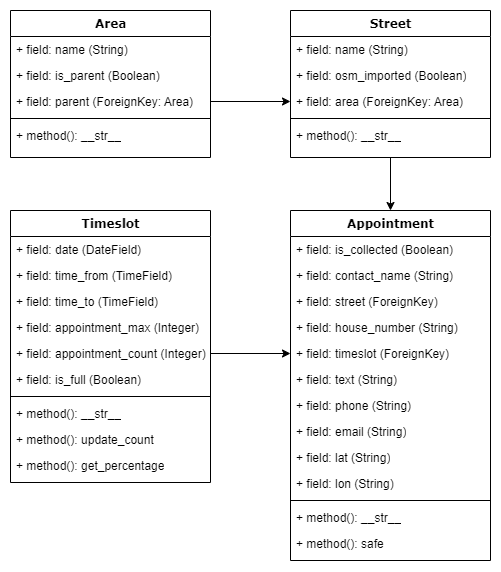
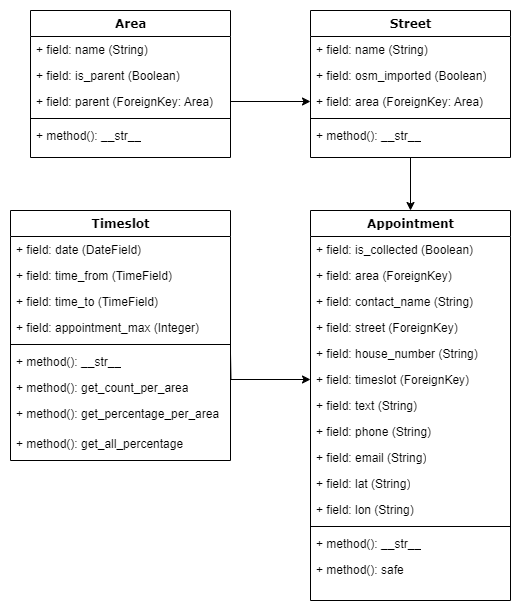
Möglichkeit zum manuellen Überschreiben des Fahrzeuges geschaffen, close #9

Changed region(s): [[0.0, 0.0, 0.988, 1.0], [0.0299, 0.8024, 0.3293, 0.8322]]

diff --git a/WBSAtool/frontend/templates/appointment/appointment_modal.html b/WBSAtool/frontend/templates/appointment/appointment_modal.html
@@ -3,12 +3,15 @@
     <button type="button" class="btn-close" data-bs-dismiss="modal"></button>
 </div>
 <div class="modal-body">
+    {% if appointment.area %}<span class="badge bg-primary my-2">Fahrzeug überschrieben</span>{% endif %}
     <ul class="list-group w-100">
+        <li class="list-group-item list-group-item-action">
         {% if appointment.is_collected %}
-            <li class="list-group-item list-group-item-action">Abgeholt: Ja</li>
+            Abgeholt: Ja
         {% else %}
-            <li class="list-group-item list-group-item-action">Abgeholt: Nein</li>
+            Abgeholt: Nein
         {% endif %}
+        </li>
         <li class="list-group-item list-group-item-action">Name: {{appointment.contact_name}}</li>
         <li class="list-group-item list-group-item-action">
             Adresse: <a href="http://www.google.com/maps/place/{{ appointment.lat }},{{ appointment.lon }}">{{appointment.street}} {{appointment.house_number}}</a>

diff --git a/WBSAtool/frontend/templates/appointment/appointment_edit.html b/WBSAtool/frontend/templates/appointment/appointment_edit.html
@@ -87,6 +87,17 @@
                         </select>
                     </div>
                 </div>
+                <div class="row mb-3">
+                    <label for="timeslot" class="col-sm-3 col-form-label text-lg-end">Fahrzeug überschreiben</label>
+                    <div class="col">
+                        <select class="form-select" name="area" id="area">
+                            <option value="None">--- kein Overwrite ---</option>
+                            {% for area in area_list %}
+                                <option value="{{ area.id }}">{{ area.name }}</option>
+                            {% endfor %}
+                        </select>
+                    </div>
+                </div>
                 <div class="text-end my-3">
                         <button type="submit" name="update" class="btn btn-primary">Speichern</button>
                         {% if appointment %}

diff --git a/WBSAtool/frontend/templates/appointment/appointment_list.html b/WBSAtool/frontend/templates/appointment/appointment_list.html
@@ -28,7 +28,12 @@
         {% endif %}
             <td><input type="checkbox" class="toggle form-check-input" value="{{appointment.id}}" name="select_row"></td>
             <td>{{appointment.contact_name}}</td>
-            <td>{{appointment.street}}</td>
+            <td>
+                {{appointment.street}}
+            {% if appointment.area %}
+                <span class="badge bg-primary">Fzg überschrieben</span>
+            {% endif %}
+            </td>
             <td>{{appointment.timeslot.date}}, {{appointment.timeslot.time_from|date:"H:i"}}-{{appointment.timeslot.time_to|date:"H:i"}}</td>
             <td id="status_{{appointment.id}}">
                 {% if appointment.is_collected %}

diff --git a/WBSAtool/frontend/views.py b/WBSAtool/frontend/views.py
@@ -126,6 +126,7 @@ def appointment_edit(request, appointment_id):
     appointment = get_object_or_404(Appointment, id=appointment_id)
     if request.method == 'GET':
         StreetList = Street.objects.order_by("name")
+        AreaList = Area.objects.filter(is_parent=True)
         if (appointment.street.area) and (appointment.street.area.parent) :
             TimeslotList = Area.objects.get(id=appointment.street.area.parent.id).get_timeslots()
         else:
@@ -133,7 +134,7 @@ def appointment_edit(request, appointment_id):
                             "appointment_max":appointment.timeslot.appointment_max,
                             "count":"X",
                             "percentage":"X%"}]
-        context = {"appointment": appointment, "street_list": StreetList, 'timeslot_list': TimeslotList, 'NOMINATIM_URL': NOMINATIM_URL}
+        context = {"appointment": appointment, "street_list": StreetList, 'timeslot_list': TimeslotList, 'area_list': AreaList, 'NOMINATIM_URL': NOMINATIM_URL}
         return render(request, 'appointment/appointment_edit.html', context)
     if request.method == "POST":
         appointment.contact_name = request.POST['name']
@@ -143,6 +144,7 @@ def appointment_edit(request, appointment_id):
         appointment.text = request.POST['text']
         appointment.phone = request.POST['phone']
         appointment.email = request.POST['email']
+        appointment.area = Area.objects.get(id=request.POST['area'])
         appointment.save()
         return HttpResponseRedirect(reverse('frontend:appointment_list'))
 
@@ -151,7 +153,8 @@ def appointment_edit(request, appointment_id):
 def appointment_new(request):
     if request.method == 'GET':
         StreetList = Street.objects.order_by("name")
-        context = {"street_list": StreetList, 'NOMINATIM_URL': NOMINATIM_URL}
+        AreaList = Area.objects.filter(is_parent=True)
+        context = {"street_list": StreetList, "area_list": AreaList, 'NOMINATIM_URL': NOMINATIM_URL}
         return render(request, 'appointment/appointment_edit.html', context)
     if request.method == "POST":
         contact_name = request.POST['name']
@@ -161,6 +164,7 @@ def appointment_new(request):
         text = request.POST['text']
         phone = request.POST['phone']
         email = request.POST['email']
+        area = request.POST['area']
         newAppointment = Appointment(contact_name=contact_name, street=street, house_number=house_number, timeslot=timeslot)
         if text:
             newAppointment.text = text
@@ -168,6 +172,8 @@ def appointment_new(request):
             newAppointment.phone = phone
         if email:
             newAppointment.email = email
+        if area:
+            newAppointment.area = Area.objects.get(id=area)
         newAppointment.save()
         return HttpResponseRedirect(reverse('frontend:appointment_map'))
 
@@ -220,7 +226,8 @@ def generate_pdf(request):
 
     for vehicle in vehicle_list.all():
         for timeslot in timeslot_list:
-            appointment_list = Appointment.objects.filter(timeslot=timeslot, street__area__parent=vehicle).order_by("street")
+            appointment_list = Appointment.objects.filter(timeslot=timeslot, street__area__parent=vehicle, area__isnull=True)
+            appointment_list = (appointment_list | Appointment.objects.filter(timeslot=timeslot, area=vehicle)).order_by("street")
             if appointment_list.count() == 0:
                 continue
             report.write_heading(f"Fahzeug: {vehicle.name}", 2)

diff --git a/WBSAtool/backend/models.py b/WBSAtool/backend/models.py
@@ -54,7 +54,9 @@ class Timeslot(models.Model):
         return f"{self.date}_{self.time_from}_{self.time_to}"
 
     def get_count_per_area(self, area_id):
-        count = Appointment.objects.filter(timeslot=self, street__area__parent_id=area_id).count()
+        qs = Appointment.objects.filter(timeslot=self, street__area__parent_id=area_id, area__isnull=True)
+        overwrites = Appointment.objects.filter(timeslot=self, area_id=area_id)
+        count = (qs | overwrites).count()
         return count
 
     def get_percentage_per_area(self, area_id):
@@ -72,6 +74,10 @@ class Timeslot(models.Model):
 
 class Appointment(models.Model):
     is_collected = models.BooleanField(default=False)
+    area = models.ForeignKey('Area',
+                             default=None,
+                             on_delete=models.SET_NULL,
+                             null=True)
     contact_name = models.CharField(max_length=200)
     street = models.ForeignKey('Street',
                                on_delete=models.CASCADE,

diff --git a/WBSAtool/frontend/view_collection/collect.py b/WBSAtool/frontend/view_collection/collect.py
@@ -1,8 +1,8 @@
-from django.views.generic.detail import DetailView
 from django.views.generic.list import ListView
-from django.views.generic.edit import FormView, UpdateView
+from django.views.generic.edit import FormView
 from django.urls import reverse
 from django.utils.html import urlencode
+from itertools import chain
 from ..forms import CollectMenuForm
 from backend.models import Appointment
 
@@ -27,7 +27,8 @@ class CollectList(ListView):
         qs = self.model.objects.all()
         if "area" in self.request.GET:
             area = int(self.request.GET['area'])
-            qs = qs.filter(street__area__parent_id=area)
+            overwrites = self.model.objects.filter(area_id=area)
+            qs = qs.filter(street__area__parent_id=area, area__isnull=True) | overwrites
         if "timeslot" in self.request.GET:
             timeslot = int(self.request.GET['timeslot'])
             qs = qs.filter(timeslot_id=timeslot)

diff --git a/WBSAtool/backend/migrations/0003_appointment_area.py b/WBSAtool/backend/migrations/0003_appointment_area.py
@@ -1,0 +1,19 @@
+# Generated by Django 4.1.7 on 2024-02-18 20:22
+
+from django.db import migrations, models
+import django.db.models.deletion
+
+
+class Migration(migrations.Migration):
+
+    dependencies = [
+        ('backend', '0002_remove_timeslot_appointment_count_and_more'),
+    ]
+
+    operations = [
+        migrations.AddField(
+            model_name='appointment',
+            name='area',
+            field=models.ForeignKey(default=None, null=True, on_delete=django.db.models.deletion.SET_NULL, to='backend.area'),
+        ),
+    ]

diff --git a/WBSAtool/backend/views.py b/WBSAtool/backend/views.py
@@ -61,7 +61,7 @@ class singleTimeslotCount(APIView):
 class AppointmentList(generics.ListCreateAPIView):
     queryset = Appointment.objects.all()
     serializer_class = AppointmentSerializer
-    filterset_fields = ['id', 'is_collected', 'contact_name', 'street', 'house_number', 'timeslot', 'text', 'phone', 'email']
+    filterset_fields = ['id', 'is_collected', 'area', 'contact_name', 'street', 'house_number', 'timeslot', 'text', 'phone', 'email']
 
 
 class AppointmentDetail(generics.RetrieveUpdateDestroyAPIView):

diff --git a/WBSAtool/backend/serializers.py b/WBSAtool/backend/serializers.py
@@ -45,4 +45,4 @@ class AppointmentSerializer(serializers.ModelSerializer):
 
     class Meta:
         model = Appointment
-        fields = ['id', 'is_collected', 'contact_name', 'street', 'house_number', 'timeslot', 'text', 'phone', 'email', 'lat', 'lon']
+        fields = ['id', 'is_collected', 'area', 'contact_name', 'street', 'house_number', 'timeslot', 'text', 'phone', 'email', 'lat', 'lon']

diff --git a/README.md b/README.md
@@ -20,6 +20,8 @@ Sollte es bereits Abholungen in derselben Straße geben werden Vorschläge für 
 
 ![Screenshot der Zeitraum-Vorschläge](screenshots/timeslot_suggestion.png)
 
+Nach Eingabe der vollständigen Adresse wird ein gelber Marker auf der Karte gesetzt. So ist es möglich die Abholungen in der Nähe zu der neuen Abholung zu sehen um den besten Zeitraum auswählen zu können.
+
 Die Sammlung
 ------------
 Während der Sammlung ist es möglich die Abholungen in einer Liste nach Zeitraum zu filtern und als abgeholt zu markieren:
@@ -51,3 +53,4 @@ Die Abholungszeiträume haben ein Datum, eine Start- und Endzeit. Zusätzlich gi
 <h3>Abholungen</h3>
 Die Abholungen enthalten alle relevanten Daten, damit ein Baum abgeholt werden kann. Zusätzlich ist es möglich eine Abholung als "abgeholt" zu markieren.
 Beim Speichern der Abholung wird die Adresse der mittels der Nominatim-API von OpenStreetMap in GPS-Koordinaten umgewandelt und ebenfalls gespeichert. Diese Koordinaten werden von der Übersichtskarte verwendet.
+Es ist möglich ein Fahrzeug direkt an ein Fahrzeug zu binden. Diese Funktion ist für einen Ausgleich der Abholungen der verschiedenen Fahrzeige gedacht. In der Praxis sind die Fahrzeuge im selben Zeitraum oft nicht gleichmäßig ausgelastet und so können einzelne Abholungen an ein anderes Fahrzeug mit einer niedrigen Auslastung disponiert werden.
